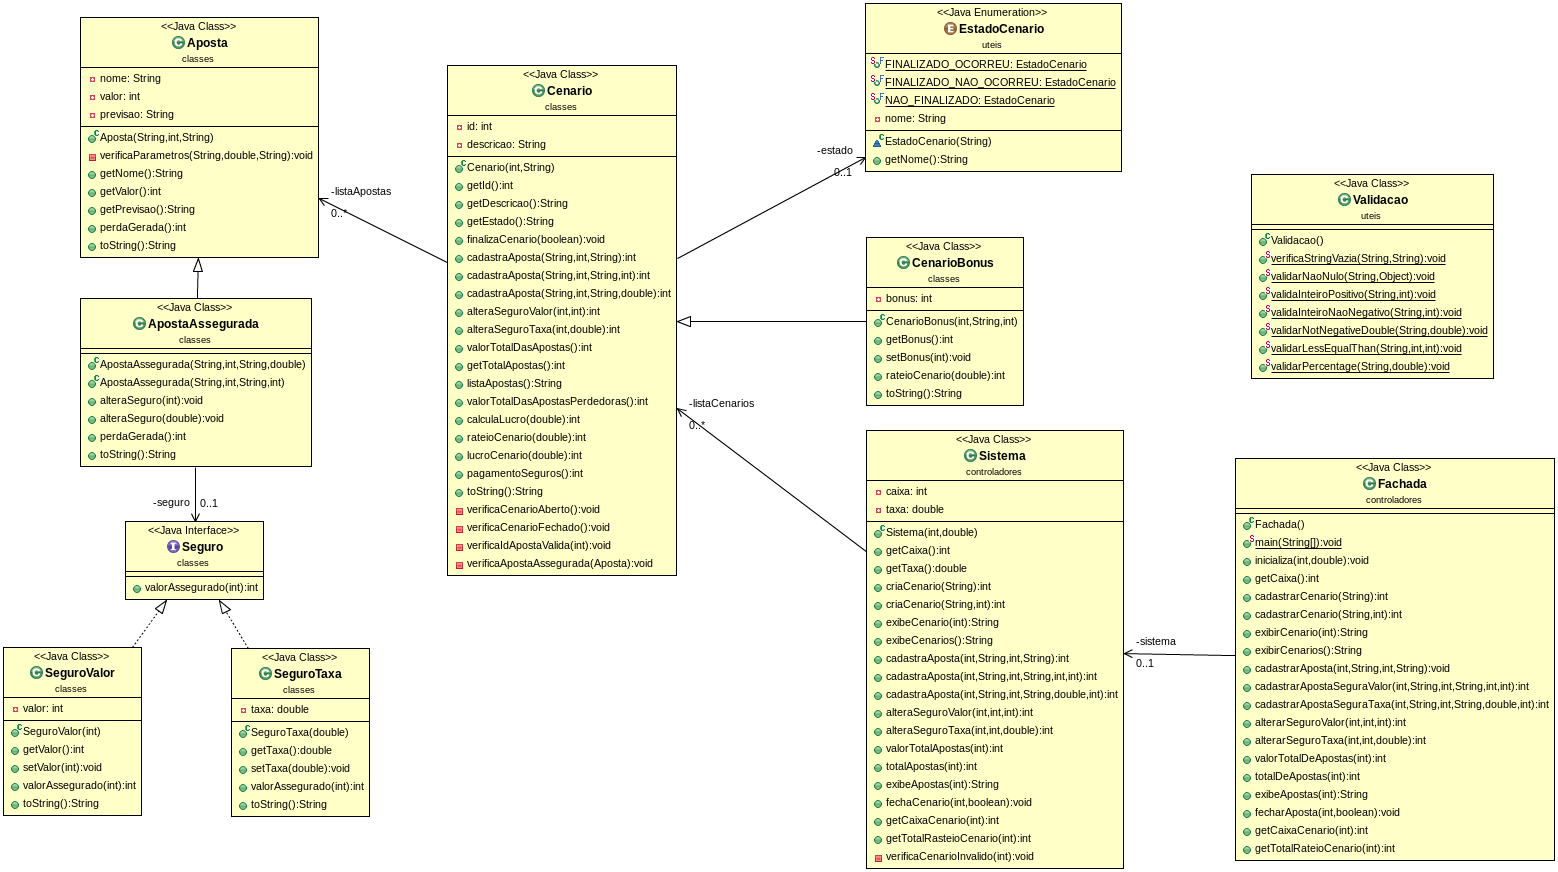
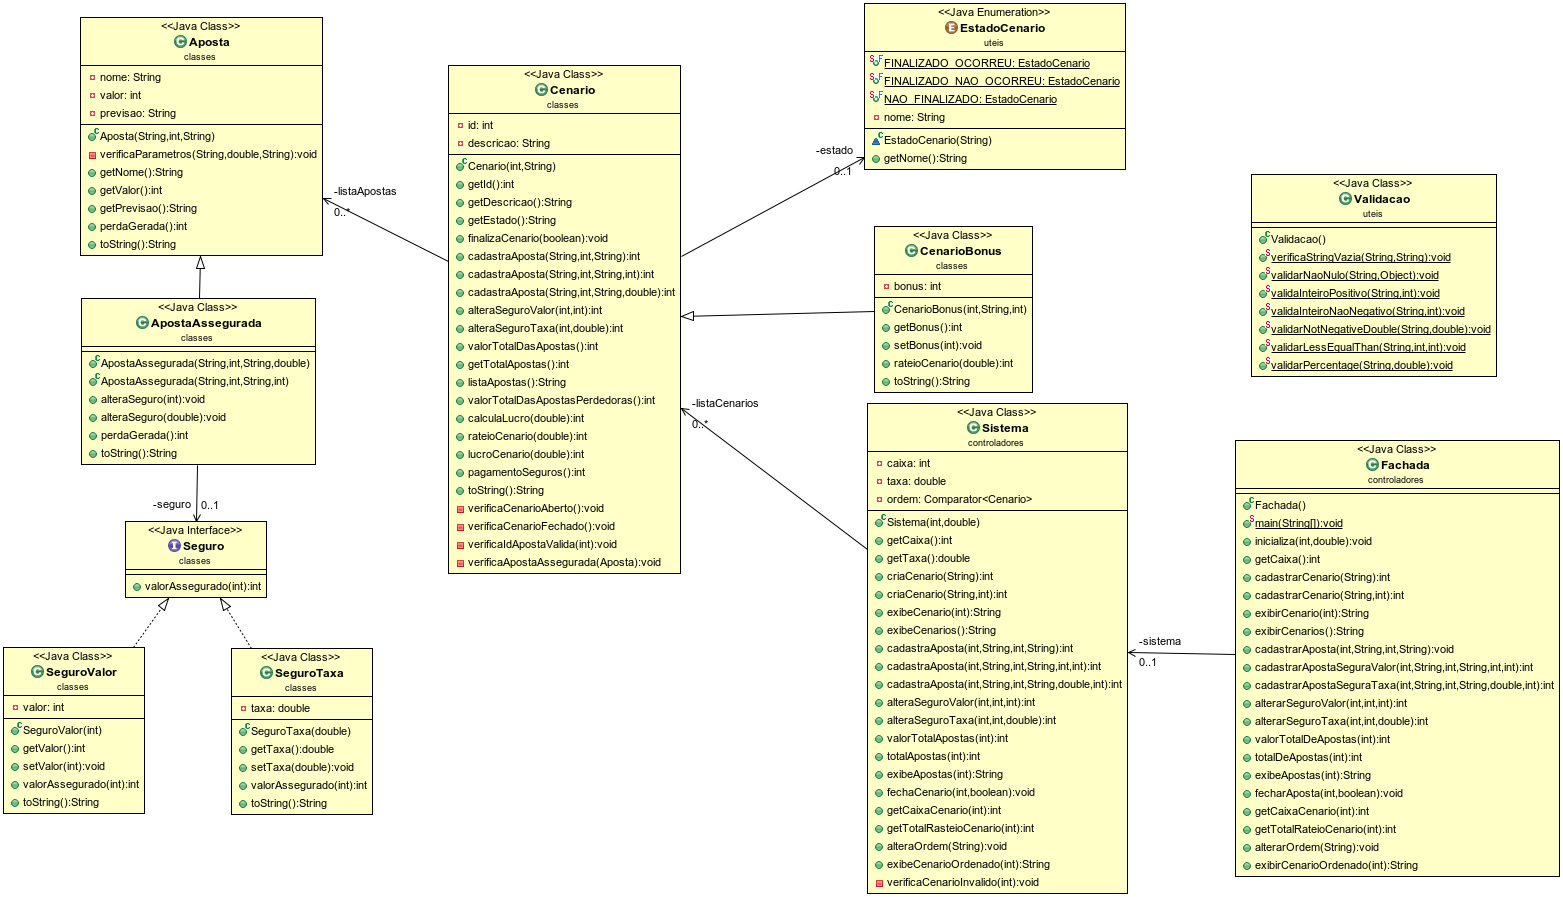
Finalizando parte 3 do lab 5

diff --git a/SistemaDeApostas/src/controladores/Sistema.java b/SistemaDeApostas/src/controladores/Sistema.java
@@ -2,10 +2,10 @@ package controladores;
 
 import java.util.ArrayList;
 import java.util.Collections;
+import java.util.Comparator;
 
 import classes.Cenario;
 import classes.CenarioBonus;
-import classes.ComparaOrdemOriginal;
 import classes.ComparaPorApostas;
 import classes.ComparaPorID;
 import classes.ComparaPorNome;
@@ -19,13 +19,10 @@ import uteis.Validacao;
  */
 public class Sistema {
 	
-	private final int ORDEM_NOME = 1;
-	private final int ORDEM_CADASTRO = 2;
-	private final int ORDEM_APOSTAS = 3;
-	private int ordem;
 	private int caixa;
 	private double taxa;
 	private ArrayList<Cenario> listaCenarios;
+	private Comparator<Cenario> ordem;
 
 	/**
 	 * Cria um novo objeto de sistema, inicializando o valor do caixa e a taxa de ganho com os valores recebido.
@@ -43,6 +40,7 @@ public class Sistema {
 			this.caixa = caixa;
 			this.taxa = taxa;
 			this.listaCenarios = new ArrayList<>();
+			this.ordem = new ComparaPorID();
 		} catch (IllegalArgumentException e) {
 			throw new IllegalArgumentException("Erro na inicializacao: " + e.getMessage());
 		}
@@ -376,13 +374,13 @@ public class Sistema {
 		if(ordem == null || ordem.trim().equals("")) throw new IllegalArgumentException("Erro ao alterar ordem: Ordem nao pode ser vazia ou nula");
 		switch(ordem.toLowerCase()){
 		case "cadastro":
-			Collections.sort(listaCenarios, new ComparaPorID());
+			this.ordem = new ComparaPorID();
 			break;
 		case "nome":
-			Collections.sort(listaCenarios, new ComparaPorNome());
+			this.ordem = new ComparaPorNome();
 			break;
 		case "apostas":
-			Collections.sort(listaCenarios, new ComparaPorApostas());
+			this.ordem = new ComparaPorApostas();
 			break;
 		default:
 			throw new IllegalArgumentException("Erro ao alterar ordem: Ordem invalida");
@@ -392,7 +390,9 @@ public class Sistema {
 	public String exibeCenarioOrdenado(int idCenario){
 		try{
 			verificaCenarioInvalido(idCenario);
-			return listaCenarios.get(idCenario - 1).toString();
+			ArrayList<Cenario> lista = new ArrayList<>(listaCenarios);
+			Collections.sort(lista, this.ordem);
+			return lista.get(idCenario - 1).toString();
 		} catch (IllegalArgumentException e){
 			throw new IllegalArgumentException("Erro na consulta de cenario ordenado: " + e.getMessage());
 		}
